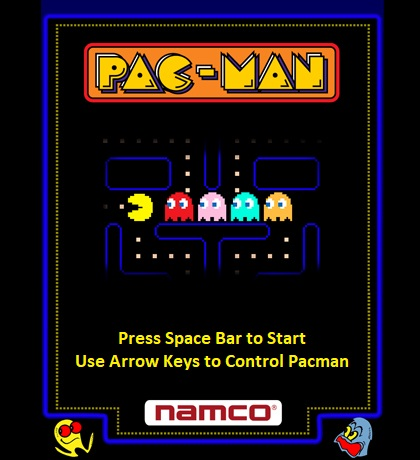
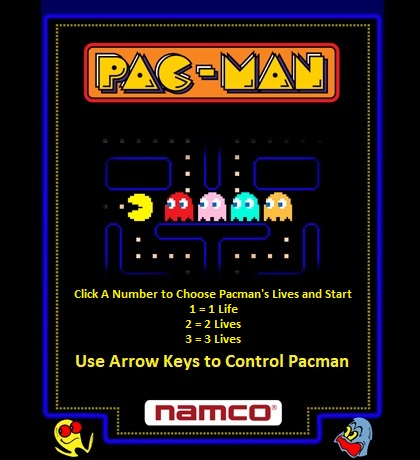
stiff

diff --git a/Game.java b/Game.java
@@ -21,7 +21,7 @@ public class Game extends JFrame implements Runnable {
     private Board board;
 
     static boolean restart = false;         //Determines if the game should restart
-    static int pacmanLives = 1;     //Determines how many lives pacman has
+    static int pacmanLives = 3;     //Determines how many lives pacman has
     static int score = 0;           //The score pacman has as he collects pellets
     static int finalScore = 0;      //The final score when pacman dies
     static int pelletCounter = 0;   //Counts pellets to determine if all on screen are collected
@@ -53,6 +53,32 @@ public class Game extends JFrame implements Runnable {
                 repaint();
             }//while
 
+            // If restart is pressed, restart the game
+            if (restart) {
+                // reset all variables
+                score = 0;
+                finalScore = 0;
+                count = 0;
+
+                // reset ghosts
+                Board.gList.clear();
+
+                // reset mapobjects
+                for (int i = 0; i < Board.mapData.length; i++) {
+                    for (int j = 0; j < Board.mapData[i].length; j++) {
+                        Board.mapObjects[i][j] = Board.mapData[i][j];
+                    } // for
+                } // for
+
+                // reset pacman position
+                Pacman.pacmanX = 260;
+                Pacman.pacmanY = 460;
+                board = new Board();
+                restart = false;
+                Board.gameOver = false;
+                Board.menu = true;
+            } // if
+
             //if pacman runs out of lives go to game over screen
             if (pacmanLives <= 0) {
                 Board.gameOver = true;
@@ -72,30 +98,6 @@ public class Game extends JFrame implements Runnable {
                     //set show leader board to false again
                     Board.showLeaderBoard = false;
                 }//if
-
-                if (restart) {
-                    score = 0;
-                    finalScore = 0;
-                    count = 0;
-                    pacmanLives = 1;
-
-                    //reset ghosts
-                    Board.gList.clear();
-
-                    //reset mapobjects
-                    for (int i = 0; i < Board.mapData.length; i++) {
-                        for (int j = 0; j < Board.mapData[i].length; j++) {
-                            Board.mapObjects[i][j] = Board.mapData[i][j];
-                        }//for
-                    }
-
-                    //reset pacman position
-                    Pacman.pacmanX = 260;
-                    Pacman.pacmanY = 460;
-                    board = new Board();
-                    restart = false;
-                    Board.gameOver = false;
-                }
             }//if
 
             //update and repaint board

diff --git a/Controller.java b/Controller.java
@@ -31,12 +31,25 @@ public class Controller implements KeyListener, MouseListener {
                 Pacman.changePacmanDirection(3);
                 break;
 
-            //check if the space bar is pressed
-            case KeyEvent.VK_SPACE: //Space bar
-                //if the menu is being shown, remove it
+            // check if 1 2 or 3 is pressed
+            case KeyEvent.VK_1: // Set Lives to 1
                 if (Board.menu) {
+                    Game.pacmanLives = 1;
                     Board.menu = false;
-                }//if
+                }
+                break;
+            case KeyEvent.VK_2: // Set Lives to 2
+                if (Board.menu) {
+                    Game.pacmanLives = 2;
+                    Board.menu = false;
+                }
+                break;
+            case KeyEvent.VK_3: // Set Lives to 3
+                if (Board.menu) {
+                    Game.pacmanLives = 3;
+                    Board.menu = false;
+                }
+                break;
         }//switch
     }//end of keyPressed
 
@@ -53,20 +66,21 @@ public class Controller implements KeyListener, MouseListener {
             Board.exitClicked = true;
         }//if
 
-        //When pacman has no lives allow a button to be clicked to show the leaderboard
+        if (mouseX >= Board.WIDTH - 100 && mouseX <= Board.WIDTH - 20 &&
+                mouseY >= Board.HEIGHT - 70 && mouseY <= Board.HEIGHT - 50) {
+            // if clicked on the "Restart" text set restart to true
+            Game.restart = true;
+        } // if
+
+        // When pacman has no lives allow a button to be clicked to show the leaderboard
         if (Game.pacmanLives <= 0) {
             if (mouseX >= Board.WIDTH - 370 && mouseX <= Board.WIDTH - 190 &&
                     mouseY >= Board.HEIGHT - 40 && mouseY <= Board.HEIGHT - 20) {
                 // if clicked on the "Show LeaderBoard" text set showLeaderBoard to true
                 Board.showLeaderBoard = true;
-            }//if
+            } // if
 
-            if (mouseX >= Board.WIDTH - 100 && mouseX <= Board.WIDTH - 20 &&
-                    mouseY >= Board.HEIGHT - 70 && mouseY <= Board.HEIGHT - 50) {
-                // if clicked on the "Restart" text set restart to true
-                Game.restart = true;
-            }//if
-        }//if
+        } // if
     }//end of mousePressed
 
     public void mouseClicked(MouseEvent e) { 

diff --git a/Board.java b/Board.java
@@ -286,6 +286,11 @@ public class Board extends JPanel {
             g.setColor(Color.YELLOW);
             g.setFont(new Font("Arial", Font.BOLD, 20));
             g.drawString("Exit", WIDTH - 70, HEIGHT - 20);
+
+            // Draw the "Restart" text at the bottom right
+            g.setColor(Color.YELLOW);
+            g.setFont(new Font("Arial", Font.BOLD, 20));
+            g.drawString("Restart", WIDTH - 100, HEIGHT - 50);
         }
     }//end of paintComponent
     // ---------------------------------PAINT STUFF ENDS-----------------------------------//
